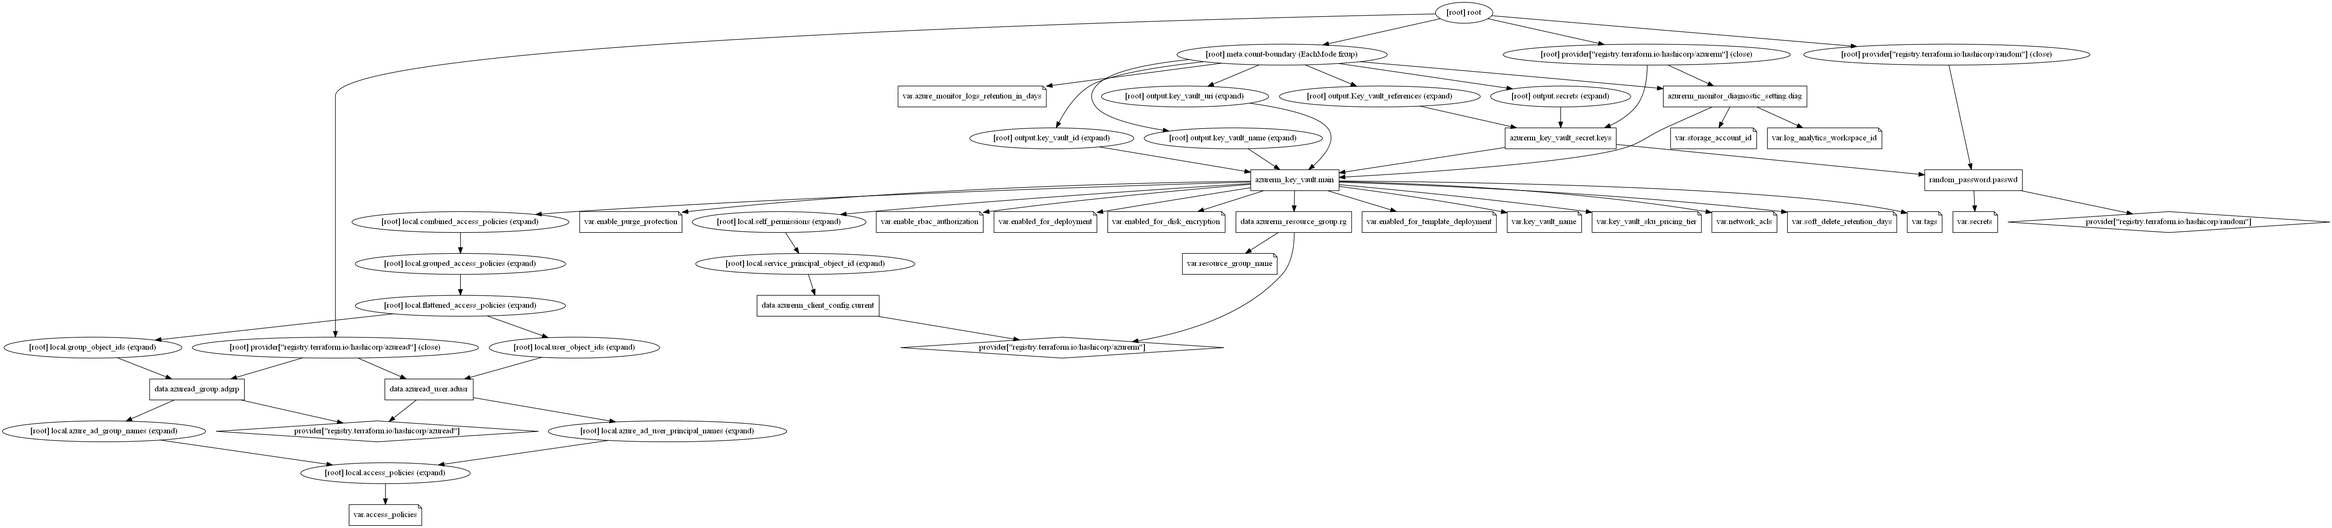
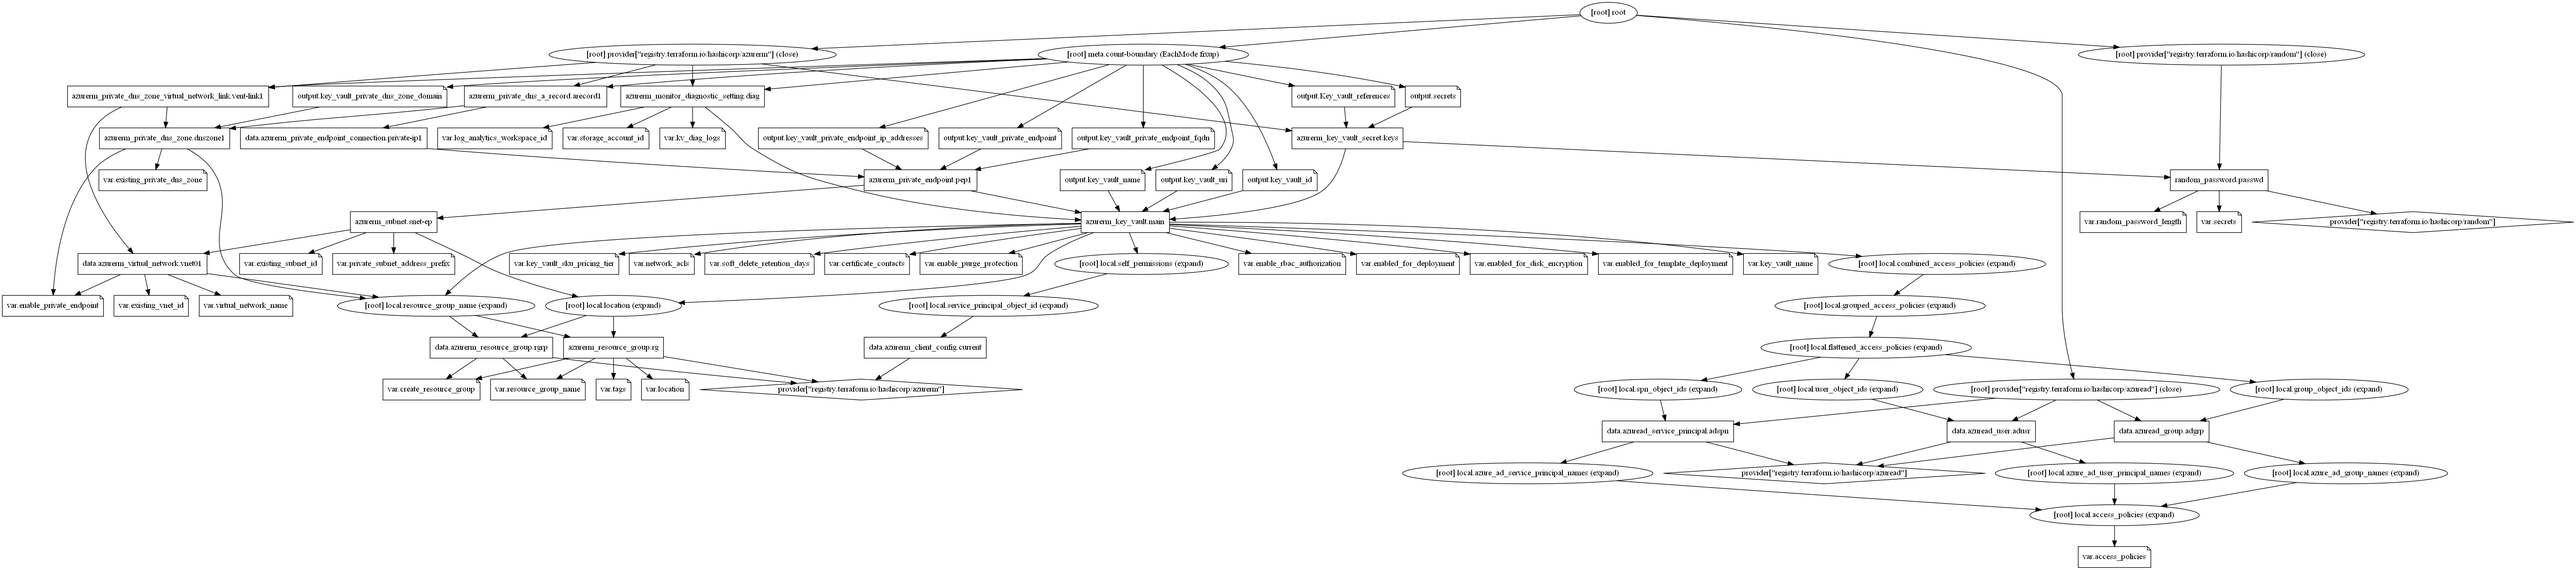
updating documentation and graph

diff --git a/README.md b/README.md
@@ -164,7 +164,7 @@ module "key-vault" {
   # .... omitted
 
   # The contacts information is shared by all the certificates in the key vault. 
-  # A notification is sent to all the specified contacts for an event for any certificate in the key vault. 
+  # A notification is sent to all the specified contacts for any certificate event in the key vault. 
   # This field can only be set once user has `managecontacts` certificate permission.
   certificate_contacts = [
     {
@@ -265,24 +265,35 @@ azuread | >= 2.7.0
 
 Name | Description | Type | Default
 ---- | ----------- | ---- | -------
+`create_resource_group`|Whether to create resource group and use it for all networking resources|string|`false`
 `resource_group_name` | The name of the resource group in which resources are created | string | `""`
+`location`|The location/region to keep all your network resources|string|`""`
 `key_vault_name`|The name of the key vault|string|`""`
 `key_vault_sku_pricing_tier`|The name of the SKU used for the Key Vault. The options are: `standard`, `premium`.|string|`"standard"`
 `enabled_for_deployment`|Allow Virtual Machines to retrieve certificates stored as secrets from the Key Vault|string|`"false"`
 `enabled_for_disk_encryption`|Allow Disk Encryption to retrieve secrets from the vault and unwrap keys|string|`"false"`
 `enabled_for_template_deployment`|Allow Resource Manager to retrieve secrets from the Key Vault|string|`"false"`
-`enable_purge_protection`|Is Purge Protection enabled for this Key Vault?|string|`"false"`
 `enable_rbac_authorization`|Specify whether Azure Key Vault uses Role Based Access Control (RBAC) for authorization of data actions|string|`false`
+`enable_purge_protection`|Is Purge Protection enabled for this Key Vault?|string|`"false"`
 `soft_delete_retention_days`|The number of days that items should be retained for once soft-deleted. The valid value can be between 7 and 90 days|string|`90`
 `access_policies`|List of access policies for the Key Vault|list|`{}`
 `azure_ad_user_principal_names`|List of user principal names of Azure AD users|list| `[]`
 `azure_ad_group_names`|List of names of Azure AD groups|list|`[]`
+`azure_ad_service_principal_names`|List of names of Azure AD service principals|list|`[]`
 `key_permissions`|List of key permissions, must be one or more from the following: `backup`, `create`, `decrypt`, `delete`, `encrypt`, `get`, `import`, `list`, `purge`, `recover`, `restore`, `sign`, `unwrapKey`, `update`, `verify` and `wrapKey`.|list|`[]`
 `secret_permissions`|List of secret permissions, must be one or more from the following: `backup`, `delete`, `get`, `list`, `purge`, `recover`, `restore` and `set`. |list|`[]`
 `certificate_permissions`|List of certificate permissions, must be one or more from the following: `backup`, `create`, `delete`, `deleteissuers`, `get`, `getissuers`, `import`, `list`, `listissuers`, `managecontacts`, `manageissuers`, `purge`, `recover`, `restore`, `setissuers` and `update`.|list|`[]`
 `storage_permissions`|List of storage permissions, must be one or more from the following: `backup`, `delete`, `deletesas`, `get`, `getsas`, `list`, `listsas`, `purge`, `recover`, `regeneratekey`, `restore`, `set`, `setsas` and `update`. |list|`[]`
 `network_acls`|Configure Azure Key Vault firewalls and virtual networks|list| `{}`
 `secrets`|A map of secrets for the Key Vault|map| `{}`
+`random_password_length`|The desired length of random password created by this module|number|`32`
+`certificate_contacts`|Contact information to send notifications triggered by certificate lifetime events|list|`[]`
+`enable_private_endpoint`|Manages a Private Endpoint to Azure Container Registry|string|`false`
+`virtual_network_name`|The name of the virtual network for the private endpoint creation. conflicts with `existing_vnet_id`and shouldn't use both.|string|`""`
+`private_subnet_address_prefix`|Address prefix of the subnet for private endpoint creation. conflicts with `existing_subnet_id` and shouldn't use both|list(string)|`null`
+`existing_vnet_id`|The resoruce id of existing Virtual network for private endpoint creation. Conflicts with `virtual_network_name`and shouldn't use both|string|`null`
+`existing_subnet_id`|The resource id of existing subnet for private endpoint creation. Conflicts with `private_subnet_address_prefix` and shouldn't use both|string|`null`
+`existing_private_dns_zone`|The name of exisging private DNS zone|string|`null`
 `log_analytics_workspace_id`|The id of log analytic workspace to send logs and metrics.|string|`"null"`
 `storage_account_id`|The id of storage account to send logs and metrics|string|`"null"`
 `Tags`|A map of tags to add to all resources|map|`{}`
@@ -296,6 +307,10 @@ Name | Description
 `key_vault_uri`|The URI of the Key Vault, used for performing operations on keys and secrets
 `secrets`|A mapping of secret names and URIs
 `Key_vault_references`|A mapping of Key Vault references for App Service and Azure Functions
+`key_vault_private_endpoint`|The ID of the Key Vault Private Endpoint
+`key_vault_private_dns_zone_domain`|DNS zone name for Key Vault Private endpoints dns name records
+`key_vault_private_endpoint_ip_addresses`|Key Vault private endpoint IPv4 Addresses
+`key_vault_private_endpoint_fqdn`|Key Vault private endpoint FQDN Addresses
 
 ## Resource Graph
 
